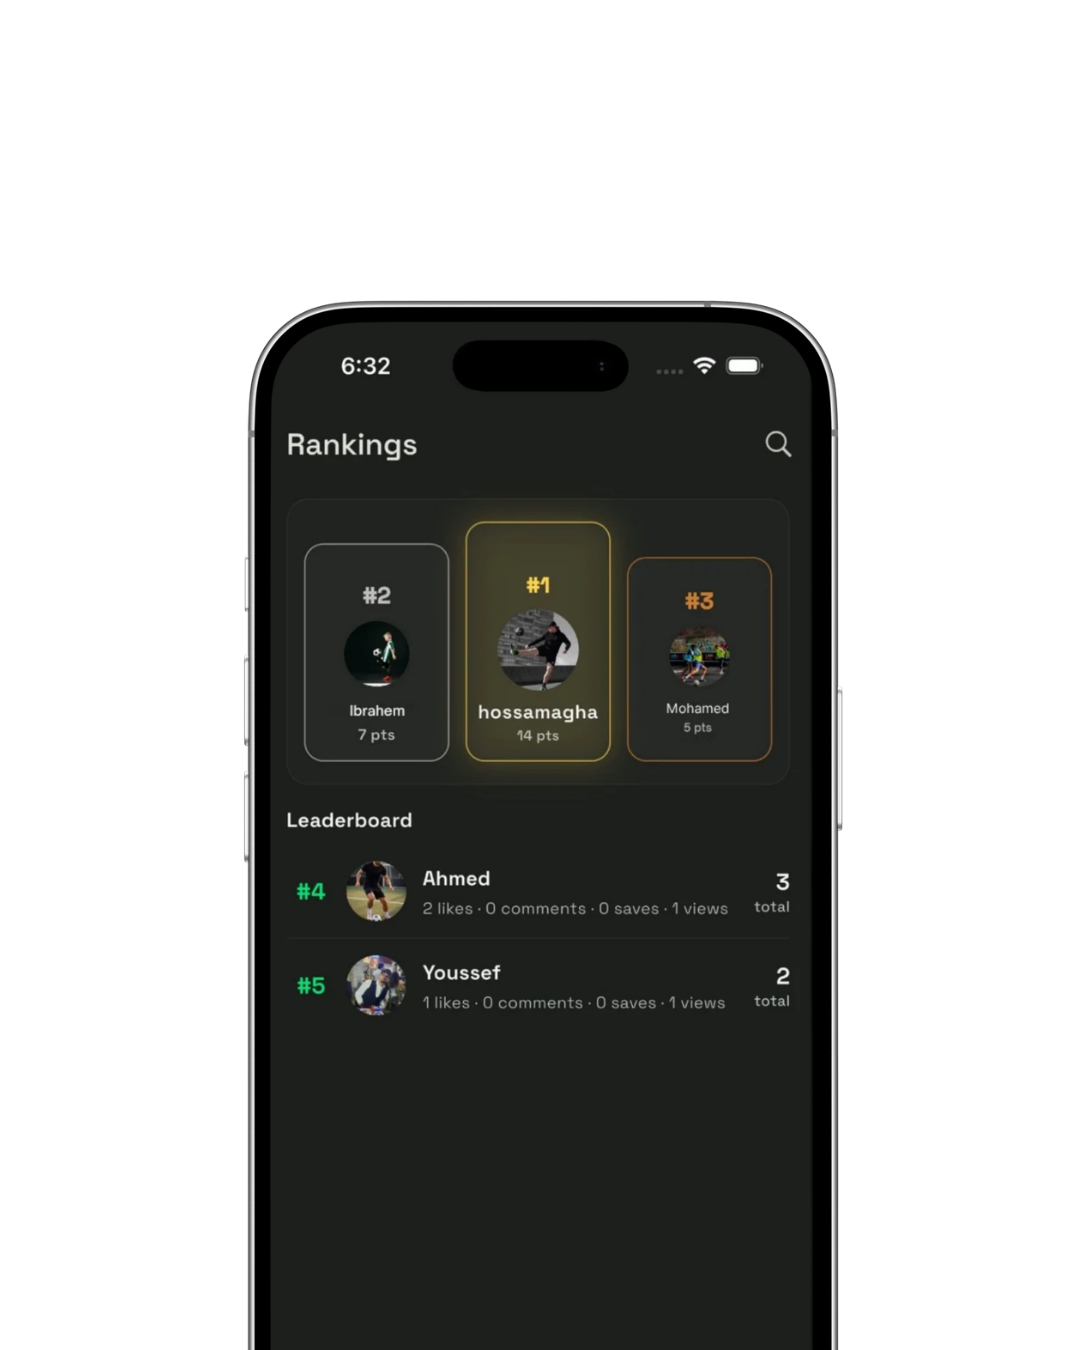
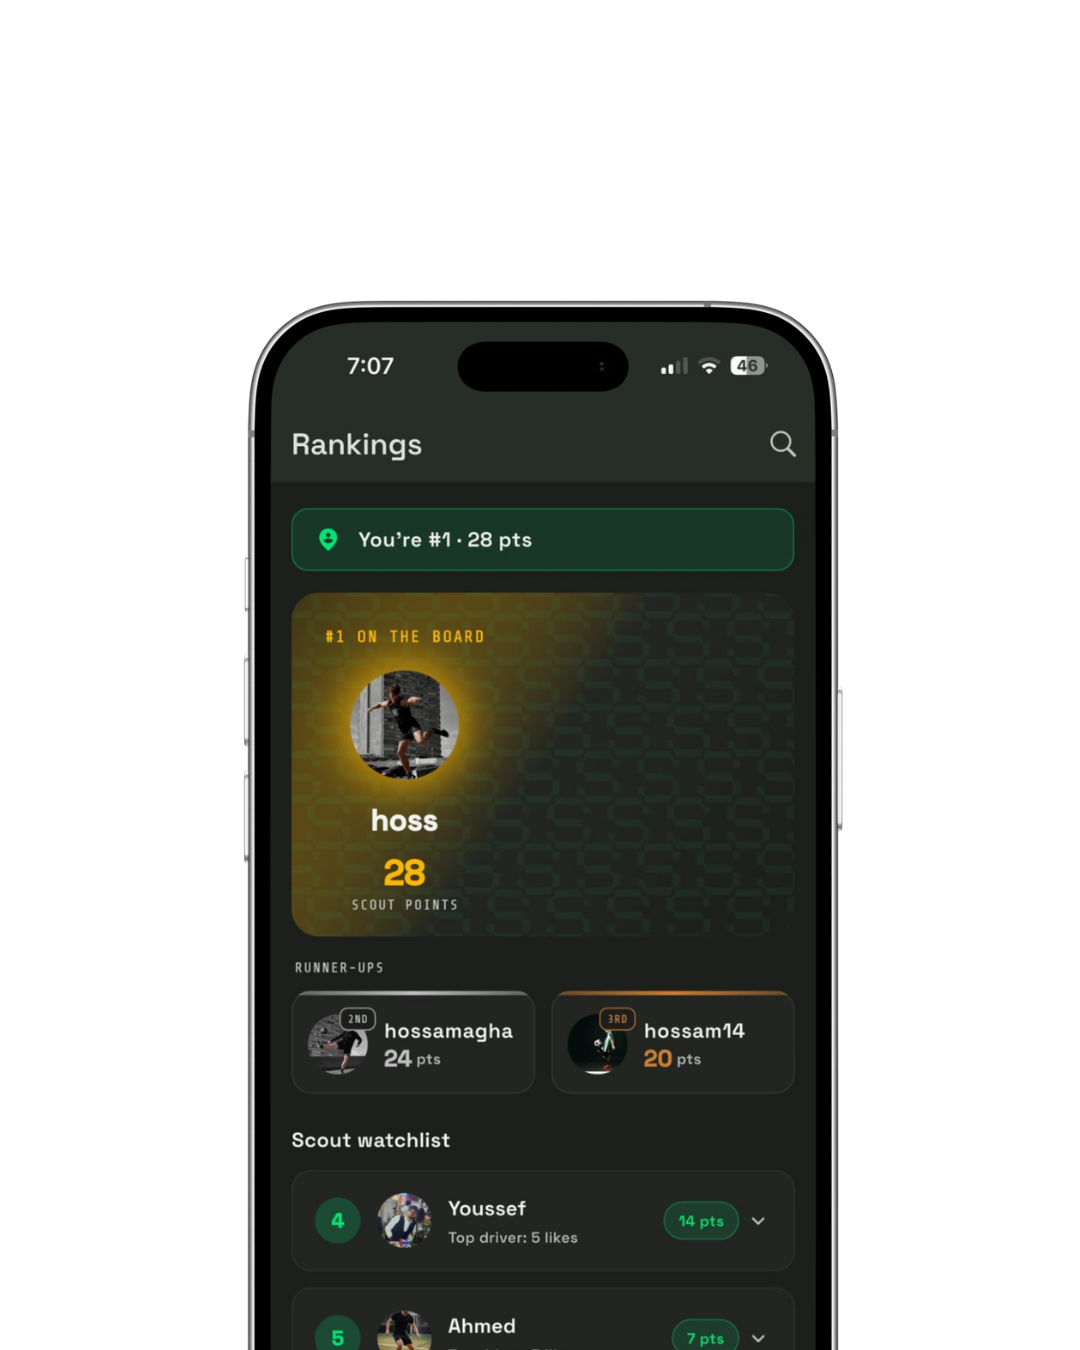
Update Rankings step mockup (Ranking screenshot.png)
Replace asset with new board UI; bump img cache query so Pages visitors get the new screenshot.

diff --git a/index.html b/index.html
@@ -150,7 +150,7 @@
           <figure class="app-step__figure">
             <img
               class="app-step__img"
-              src="assets/Ranking%20screenshot.png?v=1"
+              src="assets/Ranking%20screenshot.png?v=rankings-board"
               width="750"
               height="1624"
               alt="The Scout rankings screen with top three spotlight and leaderboard list."
